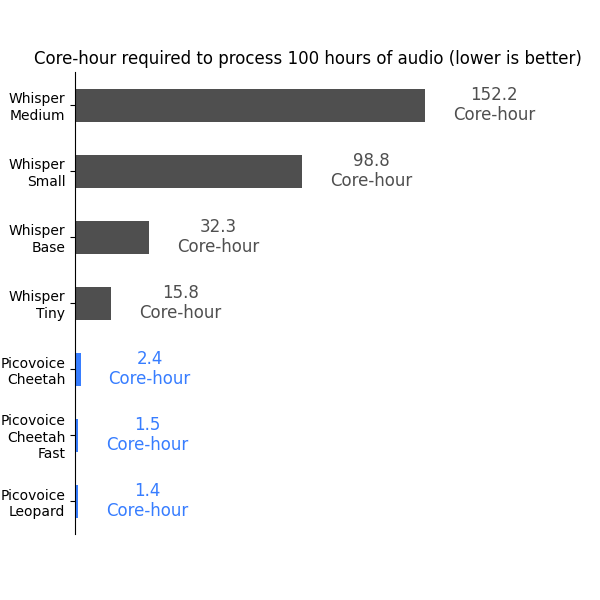
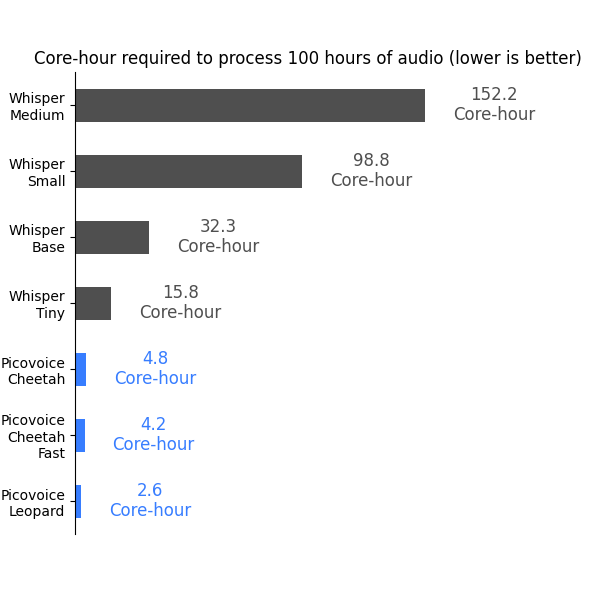
update core hours

diff --git a/results.py b/results.py
@@ -3,13 +3,13 @@ from engine import Engines
 
 RTF = {
     Engines.PICOVOICE_LEOPARD: {
-        Datasets.LIBRI_SPEECH_TEST_CLEAN: 0.014,
+        Datasets.LIBRI_SPEECH_TEST_CLEAN: 0.026,
     },
     Engines.PICOVOICE_CHEETAH_FAST: {
-        Datasets.LIBRI_SPEECH_TEST_CLEAN: 0.015,
+        Datasets.LIBRI_SPEECH_TEST_CLEAN: 0.042,
     },
     Engines.PICOVOICE_CHEETAH: {
-        Datasets.LIBRI_SPEECH_TEST_CLEAN: 0.024,
+        Datasets.LIBRI_SPEECH_TEST_CLEAN: 0.048,
     },
     Engines.WHISPER_TINY: {
         Datasets.LIBRI_SPEECH_TEST_CLEAN: 0.158,

diff --git a/README.md b/README.md
@@ -309,7 +309,7 @@ python3 benchmark_latency.py \
 To obtain these results, we ran the benchmark across the entire LibriSpeech test-clean dataset and recorded the processing time.
 The measurement is carried out on an Ubuntu 22.04 machine with AMD CPU (`AMD Ryzen 9 5900X (12) @ 3.70GHz`),
 64 GB of RAM, and NVMe storage, using 10 cores simultaneously. We omit Whisper Large from this benchmark.
-Picovoice engine results are obtained with the configuration of `--pv-device cpu:16` and `--num-workers 1`.
+Picovoice engine results are obtained with `--pv-device cpu:1`.
 
 ![](results/plots/cpu_usage_comparison.png)
 
@@ -319,9 +319,9 @@ Picovoice engine results are obtained with the configuration of `--pv-device cpu
 |    Whisper Small       |   0.99     |       462       |
 |     Whisper Base       |   0.32     |       139       |
 |     Whisper Tiny       |   0.16     |       73        |
-|   Picovoice Leopard    |   0.014    |       37        |
-| Picovoice Cheetah Fast |   0.015    |       34        |
-|   Picovoice Cheetah    |   0.024    |       34        |
+|   Picovoice Leopard    |   0.026    |       37        |
+| Picovoice Cheetah Fast |   0.042    |       34        |
+|   Picovoice Cheetah    |   0.048    |       34        |
 
 #### Word Emission Latency
 
